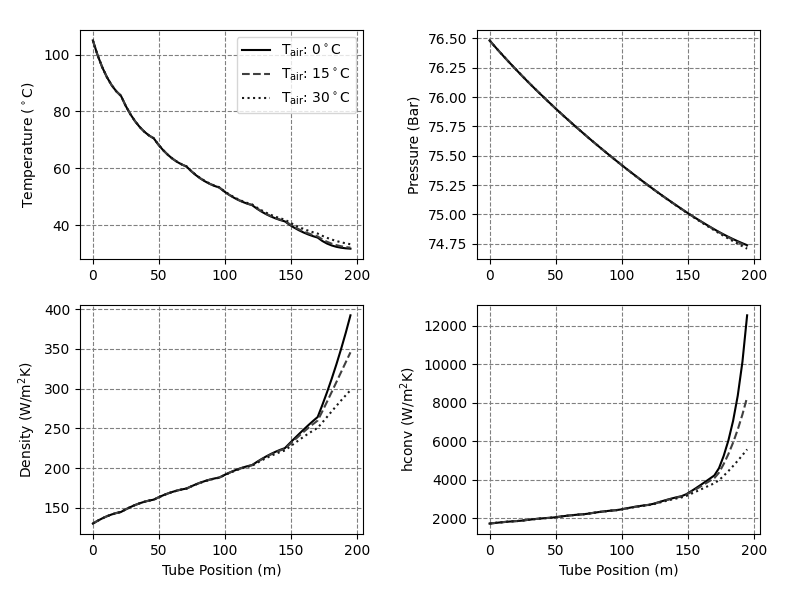
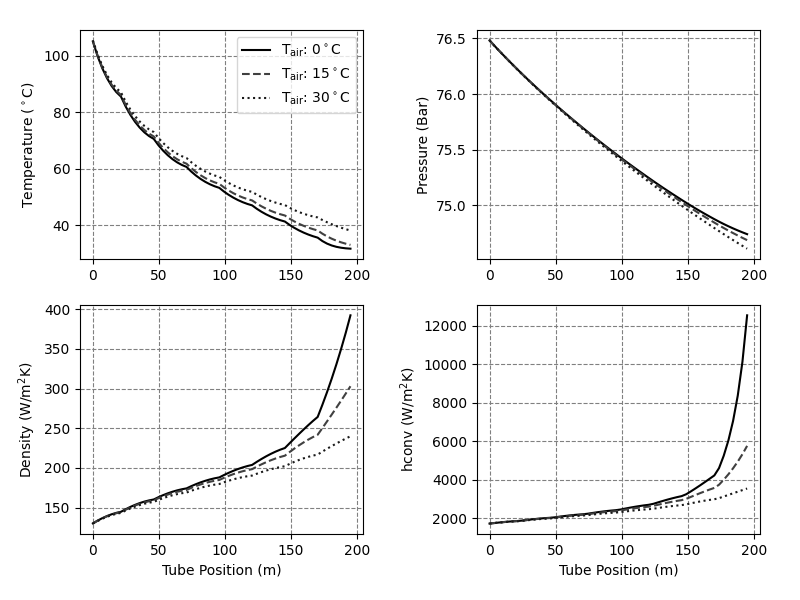
wip - fixed an issue with steady state simulations

diff --git a/viz/plot_steady_state.py b/viz/plot_steady_state.py
@@ -4,9 +4,8 @@ from matplotlib import rc
 import pandas as pd
 import numpy as np
 
-data_file = './data/steady_state_vs_temperature_p8_e7.csv'
 
-df = pd.read_csv(data_file)
+df = pd.read_csv('./data/combined.csv')
 
 # sCO2 exit temperature, density vs air temperature
 air_temp = df['temperature_shell_in_55'] - 273.15
@@ -14,38 +13,44 @@ sco2_temp = df['temperature_tube_out_55'] - 273.15
 sco2_press = df['pressure_tube_out_55'] * 1e-5
 sco2_rho = df['density_tube_out_55']
 sco2_hconv = df['hconv_tube_55']
+compressor_power = df['compressor_power']
 
 matplotlib.rcParams.update({'font.size': 12})
-fig = plt.figure(constrained_layout=True, figsize=(6, 5))
-gs = fig.add_gridspec(2, 1)
+fig = plt.figure(constrained_layout=True, figsize=(6, 7))
+gs = fig.add_gridspec(3, 1)
 ax0 = fig.add_subplot(gs[0, 0])
 ax1 = fig.add_subplot(gs[1, 0])
+ax2 = fig.add_subplot(gs[2, 0])
 
-for ax in [ax0, ax1]:
+for ax in [ax0, ax1, ax2]:
     ax.set_axisbelow(True)
     ax.xaxis.grid(color='gray', linestyle='dashed')
     ax.yaxis.grid(color='gray', linestyle='dashed')
 
 ax0.plot(air_temp, sco2_temp, 'k')
 ax1.plot(air_temp, sco2_rho, 'k')
+ax2.plot(air_temp, compressor_power, 'k')
 
 ax0.set_ylabel('Temperature ($^\circ$C)')
 ax1.set_ylabel('Density (kg/m$^3$)')
-ax1.set_xlabel('Air Temperature ($^\circ$C)')
+ax2.set_ylabel('Compressor Power (MW)')
+ax2.set_xlabel('Air Temperature ($^\circ$C)')
 
 fig.savefig('./images/steady_state_vs_temperature.png')
 
 
 # ... vs tube length
-rc('font', **{'family': 'sans-serif', 'sans-serif': ['DejaVu Sans'], 'size': 10})
+rc('font', **{'family': 'sans-serif', 'sans-serif': ['DejaVu Sans'], 'size': 12})
 rc('mathtext', **{'default': 'regular'})
-fig, ax = plt.subplots(2, 2, figsize=(8, 6))
 
-for i in range(2):
-    for j in range(2):
-        ax[i][j].set_axisbelow(True)
-        ax[i][j].xaxis.grid(color='gray', linestyle='dashed')
-        ax[i][j].yaxis.grid(color='gray', linestyle='dashed')
+fig1, ax1 = plt.subplots(2, 1, figsize=(6, 5))
+fig2, ax2 = plt.subplots(2, 1, figsize=(6, 5))
+
+for a in [ax1, ax2]:
+    for i in range(2):
+        a[i].set_axisbelow(True)
+        a[i].xaxis.grid(color='gray', linestyle='dashed')
+        a[i].yaxis.grid(color='gray', linestyle='dashed')
 
 temp = np.empty((56, 1))
 press = np.empty((56, 1))
@@ -68,20 +73,25 @@ for k, a in enumerate(d['air_temp']):
 
     c = d['color'][k]
     ls = d['ls'][k]
-    ax[0][0].plot(x, temp, c, ls=ls, label=f'$T_{{air}}$: {int(a - 273.15)}$^\circ$C')
-    ax[0][1].plot(x, press, c, ls=ls)
-    ax[1][0].plot(x, dens, c, ls=ls)
-    ax[1][1].plot(x, hconv, c, ls=ls)
+    ax1[0].plot(x, temp, c, ls=ls, label=f'$T_{{air}}$: {int(a - 273.15)}$^\circ$C')
+    ax1[1].plot(x, press, c, ls=ls)
+    ax2[0].plot(x, dens, c, ls=ls, label=f'$T_{{air}}$: {int(a - 273.15)}$^\circ$C')
+    ax2[1].plot(x, hconv, c, ls=ls)
 
-ax[0][0].legend(loc='upper right')
-ax[1][0].set_xlabel('Tube Position (m)')
-ax[1][1].set_xlabel('Tube Position (m)')
+ax1[0].legend(loc='upper right')
+ax2[0].legend(loc='upper left')
 
-ax[0][0].set_ylabel('Temperature ($^\circ$C)')
-ax[0][1].set_ylabel('Pressure (Bar)')
-ax[1][0].set_ylabel('Density (W/m$^2$K)')
-ax[1][1].set_ylabel('hconv (W/m$^2$K)')
+ax1[1].set_xlabel('Tube Position (m)')
+ax2[1].set_xlabel('Tube Position (m)')
 
-plt.subplots_adjust(wspace=0.4, top=0.95, right=0.95, left=0.1)
-fig.savefig('./images/temperature_profiles.png')
+ax1[0].set_ylabel('Temperature ($^\circ$C)')
+ax1[1].set_ylabel('Pressure (Bar)')
+ax2[0].set_ylabel('Density (W/m$^2$K)')
+ax2[1].set_ylabel('hconv (W/m$^2$K)')
+
+fig1.subplots_adjust(wspace=0.4, top=0.95, right=0.95, left=0.15)
+fig2.subplots_adjust(wspace=0.4, top=0.95, right=0.95, left=0.15)
+
+fig1.savefig('./images/temperature_profiles1.png')
+fig2.savefig('./images/temperature_profiles2.png')
 plt.show()

diff --git a/flowsheets/sco2_2d_steady_state.py b/flowsheets/sco2_2d_steady_state.py
@@ -1,6 +1,7 @@
 """
-Runs a steady state simulation for several air temperatures.
+...
 """
+import sys
 import pyomo.environ as pe
 from pyomo.network import Arc
 from idaes.core import FlowsheetBlock
@@ -13,26 +14,22 @@ from util import write_csv
 from models import HeatExchangerElement
 from flowsheets.code_gen import code_gen
 import numpy as np
+import argparse
 
+
+parser = argparse.ArgumentParser()
+parser.add_argument('-t', '--temperature', type=float, help='Shell inlet temperature')
+args = parser.parse_args()
+shell_inlet_temperature = args.temperature
 
 n_passes = 8
 n_elements_per_pass = 7
-
-# Calculate temperature ramps
-n_time_steps = 21
-start_time = 0
-end_time = 10
-start_temp = 273.15
-end_temp = 303.15
-
-time_set = list(np.linspace(start_time, end_time, n_time_steps))
-temp_set = list(np.linspace(start_temp, end_temp, n_time_steps))
 
 logger = idaes.logger.getLogger('idaes')
 logger.info('Creating model...')
 m = pe.ConcreteModel()
 m.fs = FlowsheetBlock(default={"dynamic": True,
-                               "time_set": time_set,
+                               "time_set": [0, 1],
                                "time_units": pe.units.s})
 
 m.fs.prop_sco2 = swco2.SWCO2ParameterBlock()
@@ -65,11 +62,12 @@ logger.info('Adding variables and constraints...')
 for e in all_elements:
     e.setup()
 
+
 logger.info('Applying time-discretization...')
 m.discretizer = pe.TransformationFactory('dae.finite_difference')
-m.discretizer.apply_to(m, nfe=n_time_steps-1, wrt=m.fs.time, scheme="BACKWARD")
+m.discretizer.apply_to(m, nfe=1, wrt=m.fs.time, scheme="BACKWARD")
 
-shell_inlet_temperature = 288.15
+
 shell_flow = 44004.14222
 tube_inlet_temperature = 384.35
 tube_inlet_pressure = 7653000
@@ -151,22 +149,13 @@ pe.TransformationFactory("network.expand_arcs").apply_to(m.fs)
 
 solver = pe.SolverFactory('ipopt')
 solver.options = {
-    "tol": 1e-5,
+    "tol": 1e-6,
     "linear_solver": "ma27",
-    "max_iter": 500,
+    "max_iter": 30,
 }
-logger.info('Solving model with initial steady state conditions...')
-solver.solve(m, tee=True)
-
-# Adding temperature disturbances (DON'T add dynamic heat balance constraints)
-
-for idx, t in enumerate(m.fs.time):
-    for e in shell_in_elements:
-        e.shell_inlet.temperature[t].fix(temp_set[idx])
-
-logger.info('Solving model at different temperatures...')
+logger.info('Solving model...')
 solver.solve(m, tee=True)
 
 logger.info('Writing results...')
-write_csv(f'./data/steady_state_vs_temperature_p{n_passes}_e{n_elements_per_pass}.csv',
+write_csv(f'./data/steady_state_temperature_{shell_inlet_temperature}.csv',
           all_elements)

diff --git a/flowsheets/sco2_compressor_power.py b/flowsheets/sco2_compressor_power.py
@@ -1,0 +1,60 @@
+import numpy as np
+import matplotlib.pyplot as plt
+import pyomo.environ as pe
+from idaes.core import FlowsheetBlock
+from idaes.generic_models.properties import swco2
+from idaes.generic_models.unit_models import Compressor
+import pandas as pd
+
+
+df1 = pd.read_csv('./data/steady_state_vs_temperature_low.csv')
+df2 = pd.read_csv('./data/steady_state_vs_temperature_crit.csv')
+df3 = pd.read_csv('./data/steady_state_vs_temperature_high.csv')
+frames = [df1, df2, df3]
+
+df = pd.concat(frames, ignore_index=True)
+
+df = pd.read_csv('./data/combined.csv')
+
+temperatures = df['temperature_tube_out_55']
+pressures = df['pressure_tube_out_55']
+
+n_pts = len(temperatures)
+m = pe.ConcreteModel()
+m.fs = FlowsheetBlock(default={"dynamic": True,
+                               "time_set": [0, 1],
+                               "time_units": pe.units.s})
+
+m.fs.prop_sco2 = swco2.SWCO2ParameterBlock()
+m.fs.compressor = Compressor(default={"property_package": m.fs.prop_sco2,
+                                      "dynamic": False})
+
+m.discretizer = pe.TransformationFactory('dae.finite_difference')
+m.discretizer.apply_to(m, nfe=n_pts - 1, wrt=m.fs.time, scheme="BACKWARD")
+
+# Assume 20MPa and 70% efficiency
+m.fs.compressor.outlet.pressure[:].fix(20e6)
+m.fs.compressor.efficiency_isentropic.fix(0.7)
+
+# Inlet conditions
+m.fs.compressor.inlet.flow_mol[:].fix(13896.84163)
+for i, t in enumerate(m.fs.time):
+    enth = swco2.htpx(T=temperatures[i] * pe.units.K, P=pressures[i] * pe.units.Pa)
+    m.fs.compressor.inlet.pressure[t].fix(pressures[i])
+    m.fs.compressor.inlet.enth_mol[t].fix(enth)
+
+m.fs.compressor.initialize()
+
+solver = pe.SolverFactory('ipopt')
+solver.options = {
+    "tol": 1e-6,
+    "linear_solver": "ma27",
+    "max_iter": 500,
+}
+
+solver.solve(m, tee=True)
+
+work = pe.value(m.fs.compressor.work_mechanical[:])
+df['compressor_power'] = np.array(work) * 1e-6
+
+df.to_csv('./data/combined.csv', index=None)

diff --git a/viz/plot_heatmap.py b/viz/plot_heatmap.py
@@ -149,5 +149,5 @@ def plot_2d_steady_state(data_file, n_passes=8, n_elements=7, show=False, image_
         plt.show()
 
 
-plot_2d_steady_state('./data/time_series_step_changes_p8_e7.csv',
+plot_2d_steady_state('./data/combined.csv',
                      image_file='./images/temperature_profile_2d.png', show=True)
